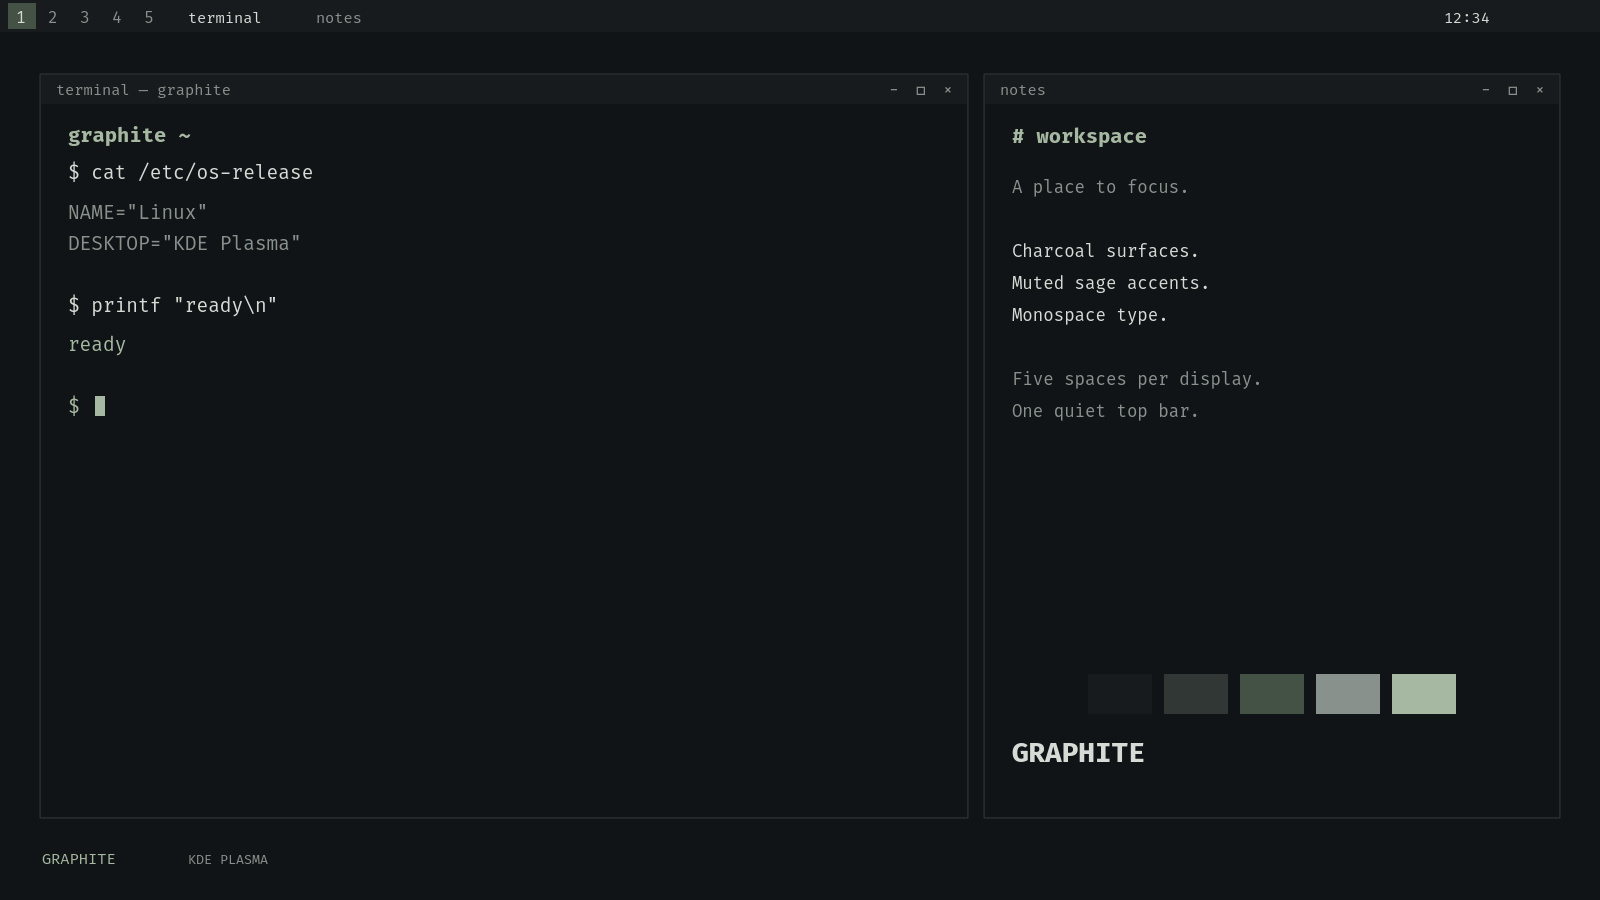
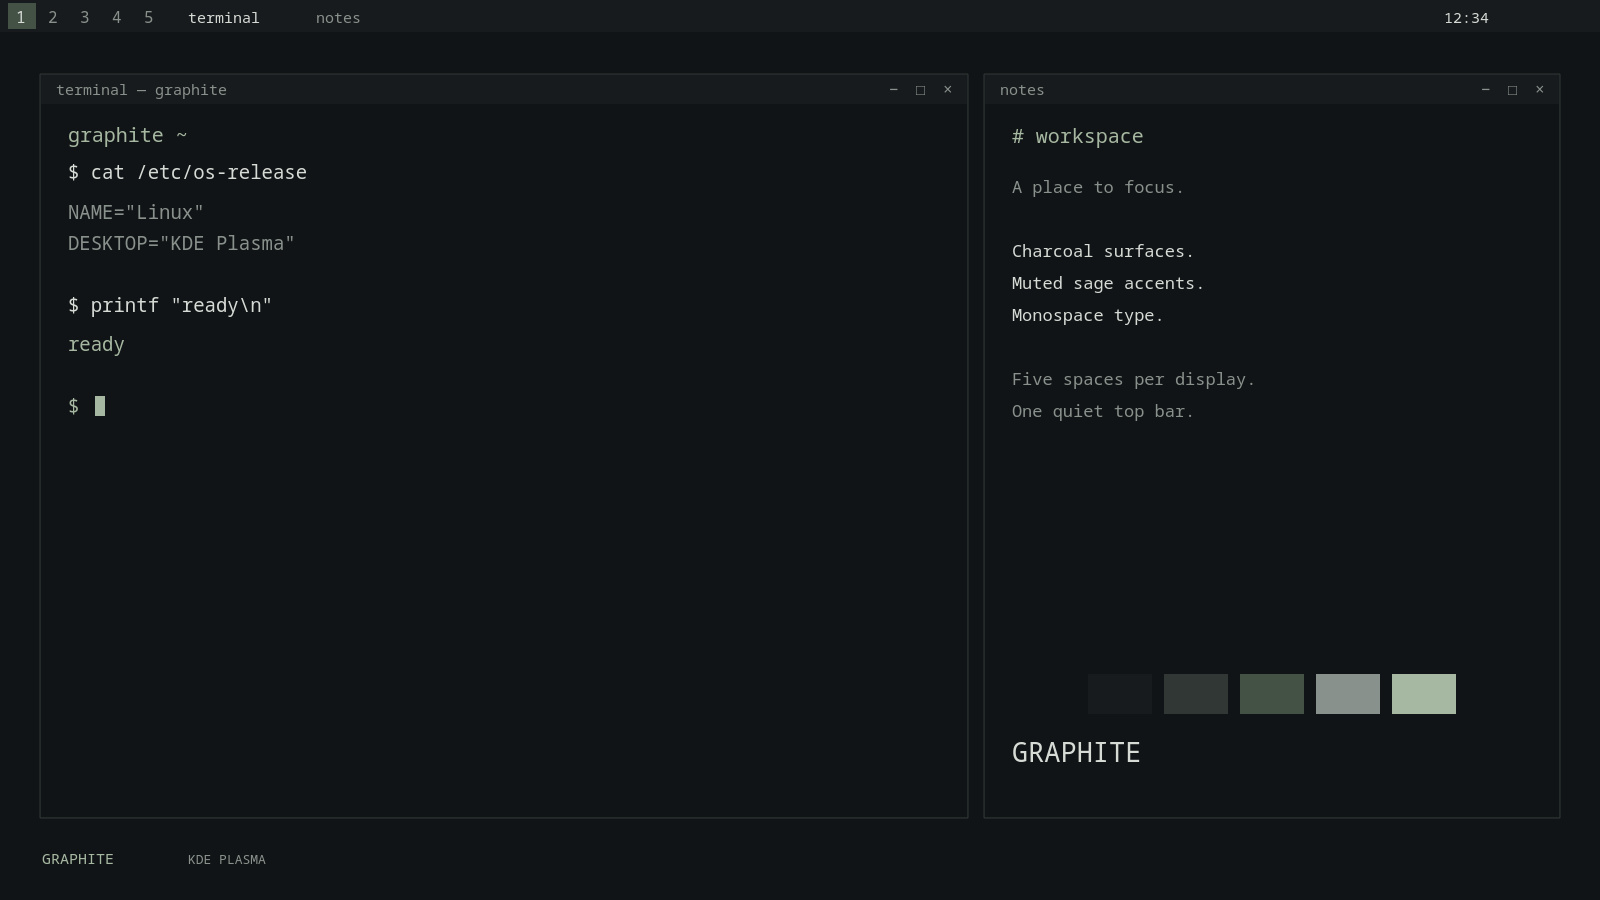
Fix Qt 6 font weights and restore regular monospace typography

diff --git a/tools/render-font-samples.py b/tools/render-font-samples.py
@@ -1,0 +1,155 @@
+#!/usr/bin/env python3
+"""Render regular monospace choices with native Qt widgets and Graphite colors."""
+import argparse
+import configparser
+import os
+from pathlib import Path
+
+os.environ.setdefault('QT_QPA_PLATFORM', 'offscreen')
+os.environ.setdefault('QT_FONT_DPI', '96')
+
+from PySide6.QtGui import QColor, QFont, QFontDatabase, QFontInfo, QImage, QPainter, QPalette
+from PySide6.QtWidgets import (QApplication, QCheckBox, QHBoxLayout, QLineEdit,
+                              QListWidget, QMainWindow, QPushButton, QSplitter, QStyleFactory,
+                              QTreeWidget, QTreeWidgetItem, QVBoxLayout, QWidget)
+
+ROOT = Path(__file__).resolve().parents[1]
+FAMILIES = ('Noto Sans Mono', 'Hack', 'DejaVu Sans Mono')
+
+
+def palette():
+    colors = configparser.ConfigParser()
+    colors.read(ROOT / 'assets/color-schemes/TerminalGraphite.colors')
+    result = QPalette()
+    roles = {
+        'Window': ('Window', 'BackgroundNormal'),
+        'WindowText': ('Window', 'ForegroundNormal'),
+        'Base': ('View', 'BackgroundNormal'),
+        'AlternateBase': ('View', 'BackgroundAlternate'),
+        'Text': ('View', 'ForegroundNormal'),
+        'Button': ('Button', 'BackgroundNormal'),
+        'ButtonText': ('Button', 'ForegroundNormal'),
+        'Highlight': ('Selection', 'BackgroundNormal'),
+        'HighlightedText': ('Selection', 'ForegroundNormal'),
+        'ToolTipBase': ('Tooltip', 'BackgroundNormal'),
+        'ToolTipText': ('Tooltip', 'ForegroundNormal'),
+        'Link': ('View', 'ForegroundLink'),
+        'PlaceholderText': ('View', 'ForegroundInactive'),
+    }
+    for role, (group, key) in roles.items():
+        color = QColor(*map(int, colors['Colors:' + group][key].split(',')))
+        result.setColor(getattr(QPalette.ColorRole, role), color)
+    return result
+
+
+def sample_window(font):
+    window = QMainWindow()
+    window.setFont(font)
+    for name in ('File', 'Edit', 'View', 'Go', 'Help'):
+        window.menuBar().addMenu(name)
+    toolbar = window.addToolBar('Navigation')
+    toolbar.setMovable(False)
+    for label in ('← Back', '↑ Up', 'Home'):
+        toolbar.addAction(label)
+    address = QLineEdit('/home/kimmo/Projects')
+    toolbar.addWidget(address)
+
+    body = QWidget()
+    layout = QVBoxLayout(body)
+    splitter = QSplitter()
+    places = QListWidget()
+    places.addItems(('Home', 'Desktop', 'Documents', 'Downloads', 'Projects', 'Pictures'))
+    places.setCurrentRow(4)
+    splitter.addWidget(places)
+    files = QTreeWidget()
+    files.setHeaderLabels(('Name', 'Modified', 'Size'))
+    for values in (('kde-graphite', 'Today', 'Folder'), ('notes.md', 'Yesterday', '2.4 KiB'),
+                   ('wallpaper.png', '12 Nov', '1.2 MiB'), ('Ääkköset.txt', '11 Nov', '640 B')):
+        files.addTopLevelItem(QTreeWidgetItem(values))
+    files.setCurrentItem(files.topLevelItem(0))
+    files.setRootIsDecorated(False)
+    files.setColumnWidth(0, 180)
+    files.setColumnWidth(1, 112)
+    splitter.addWidget(files)
+    splitter.setSizes((125, 460))
+    layout.addWidget(splitter)
+    search = QLineEdit()
+    search.setPlaceholderText('Search files and folders…')
+    layout.addWidget(search)
+    actions = QHBoxLayout()
+    actions.addWidget(QCheckBox('Show hidden files'))
+    actions.addStretch()
+    actions.addWidget(QPushButton('New folder'))
+    layout.addLayout(actions)
+    window.setCentralWidget(body)
+    window.statusBar().showMessage('4 items · 1 selected')
+    window.resize(608, 360)
+    return window
+
+
+def draw_text(painter, x, y, text, family, size, color='#d7dbd6'):
+    font = QFont(family, size)
+    font.setWeight(QFont.Normal)
+    painter.setFont(font)
+    painter.setPen(QColor(color))
+    painter.drawText(x, y, text)
+
+
+def render_sample(app, family, index):
+    font = QFont(family, 10)
+    font.setWeight(QFont.Normal)
+    app.setFont(font)
+    window = sample_window(font)
+    window.show()
+    app.processEvents()
+    image = QImage(640, 570, QImage.Format_RGB32)
+    image.fill(QColor('#111416'))
+    painter = QPainter(image)
+    draw_text(painter, 16, 35, f'{index}. {family}', family, 17, '#a6b8a1')
+    draw_text(painter, 16, 62, 'Regular / 400 · 10 pt', family, 10, '#89918c')
+    painter.fillRect(16, 82, 608, 30, QColor('#181b1d'))
+    draw_text(painter, 28, 102, 'Projects — Graphite', family, 9)
+    draw_text(painter, 544, 102, '−  □  ×', family, 9, '#89918c')
+    painter.drawPixmap(16, 112, window.grab())
+    draw_text(painter, 20, 510, '$ git status --short', family, 11, '#a6b8a1')
+    draw_text(painter, 20, 540, 'Il1 O0  0123456789  {}[]  äöå', family, 11)
+    painter.end()
+    window.close()
+    print(f'{family}: resolved to {QFontInfo(font).family()}, weight {QFontInfo(font).weight()}')
+    return image
+
+
+def main():
+    parser = argparse.ArgumentParser(description=__doc__)
+    parser.add_argument('--output', type=Path, default=ROOT / 'build/font-samples')
+    args = parser.parse_args()
+    app = QApplication([])
+    if 'Breeze' not in QStyleFactory.keys():
+        parser.error('The Breeze Qt widget style must be installed for these previews')
+    app.setStyle('Breeze')
+    app.setPalette(palette())
+    missing = set(FAMILIES) - set(QFontDatabase.families())
+    if missing:
+        parser.error('Install these fonts before rendering: ' + ', '.join(sorted(missing)))
+    args.output.mkdir(parents=True, exist_ok=True)
+    sheet = QImage(1952, 658, QImage.Format_RGB32)
+    sheet.fill(QColor('#111416'))
+    painter = QPainter(sheet)
+    draw_text(painter, 24, 34, 'GRAPHITE · Regular monospace choices', 'sans-serif', 17)
+    draw_text(painter, 24, 62, 'Native Qt/Breeze widget renders · illustrative windows · all samples use 10 pt / weight 400',
+              'sans-serif', 11, '#89918c')
+    for index, family in enumerate(FAMILIES, 1):
+        sample = render_sample(app, family, index)
+        destination = args.output / (family.lower().replace(' ', '-') + '.png')
+        if not sample.save(str(destination)):
+            raise RuntimeError(f'Could not write {destination}')
+        painter.drawImage(8 + (index - 1) * 648, 80, sample)
+    painter.end()
+    destination = args.output / 'comparison.png'
+    if not sheet.save(str(destination)):
+        raise RuntimeError(f'Could not write {destination}')
+    print(destination)
+
+
+if __name__ == '__main__':
+    main()

diff --git a/tools/render-theme-previews.py b/tools/render-theme-previews.py
@@ -17,10 +17,10 @@ def rect(painter, x, y, width, height, color):
     painter.fillRect(QRectF(x, y, width, height), QColor(color))
 
 
-def text(painter, x, y, content, size=14, color=TEXT, bold=False):
+def text(painter, x, y, content, size=14, color=TEXT):
     font = QFont(FAMILY, size)
     font.setStyleHint(QFont.TypeWriter)
-    font.setBold(bold)
+    font.setWeight(QFont.Normal)
     painter.setFont(font)
     painter.setPen(QColor(color))
     painter.drawText(x, y, content)
@@ -51,7 +51,7 @@ def desktop():
     text(p, 1444, 23, '12:34', 11)
     window(p, 40, 74, 928, 744, 'terminal — graphite')
     window(p, 984, 74, 576, 744, 'notes')
-    text(p, 68, 142, 'graphite ~', 15, SAGE, True)
+    text(p, 68, 142, 'graphite ~', 15, SAGE)
     text(p, 68, 179, '$ cat /etc/os-release', 14)
     text(p, 68, 219, 'NAME="Linux"', 14, MUTED)
     text(p, 68, 250, 'DESKTOP="KDE Plasma"', 14, MUTED)
@@ -59,13 +59,13 @@ def desktop():
     text(p, 68, 351, 'ready', 14, SAGE)
     text(p, 68, 413, '$', 14, SAGE)
     rect(p, 95, 396, 10, 20, SAGE)
-    text(p, 1012, 143, '# workspace', 15, SAGE, True)
+    text(p, 1012, 143, '# workspace', 15, SAGE)
     lines = ['A place to focus.', '', 'Charcoal surfaces.', 'Muted sage accents.', 'Monospace type.', '', 'Five spaces per display.', 'One quiet top bar.']
     for n, line in enumerate(lines):
         text(p, 1012, 193 + n * 32, line, 13, MUTED if n in [0, 6, 7] else TEXT)
     for n, color in enumerate([BG, PANEL, LINE, SELECT, MUTED, SAGE]):
         rect(p, 1012 + n * 76, 674, 64, 40, color)
-    text(p, 1012, 762, 'GRAPHITE', 20, TEXT, True)
+    text(p, 1012, 762, 'GRAPHITE', 20, TEXT)
     text(p, 42, 864, 'GRAPHITE', 11, SAGE)
     text(p, 188, 864, 'KDE PLASMA', 10, MUTED)
     p.end()

diff --git a/tests/test_theme.py b/tests/test_theme.py
@@ -1,4 +1,6 @@
 import contextlib
+import configparser
+import importlib.util
 import io
 import json
 import os
@@ -15,6 +17,26 @@ import theme
 
 
 class ThemeTests(unittest.TestCase):
+    @unittest.skipUnless(importlib.util.find_spec('PySide6'), 'PySide6 is needed to decode Qt fonts')
+    def test_generated_and_shipped_fonts_decode_as_regular_in_qt6(self):
+        from PySide6.QtGui import QFont
+
+        values = []
+        for options in [{'font': 'Fira Code', 'font_size': 10}, {'font': 'monospace', 'font_size': 12}]:
+            values.extend(value for group in theme.font_values(options).values() for value in group.values())
+            defaults = configparser.ConfigParser()
+            defaults.optionxform = str
+            defaults.read_string(theme.package_files(options)[Path('contents/defaults')].decode())
+            for group in ['kdeglobals][General', 'kdeglobals][WM']:
+                values.extend(value for key, value in defaults[group].items() if key != 'ColorScheme')
+        profile = install.read_config(install.ROOT / 'assets/konsole/TerminalGraphite.profile')
+        values.append(profile['Appearance']['Font'])
+        for value in set(values):
+            with self.subTest(font=value):
+                font = QFont()
+                self.assertTrue(font.fromString(value))
+                self.assertEqual(font.weight(), QFont.Normal)
+
     def test_standalone_package_matches_canonical_palette_and_layout(self):
         options = {'font': 'Fira Code', 'font_size': 10}
         files = theme.package_files(options)

diff --git a/theme.py b/theme.py
@@ -19,9 +19,11 @@ def wallpaper_script(data):
 
 def font_values(options):
     family, size = options['font'], options['font_size']
-    normal = f'{family},{size},-1,5,400,0,0,0,0,0'
-    small = f'{family},{max(size - 1, 8)},-1,5,400,0,0,0,0,0'
-    title = f'{family},{max(size - 1, 8)},-1,5,500,0,0,0,0,0'
+    # Qt 6 requires at least 16 fields to recognize its 100–900 weight scale.
+    # In the legacy 10-field format, 400 is decoded as Black (900).
+    normal = f'{family},{size},-1,5,400,0,0,0,0,0,0,0,0,0,0,1'
+    small = f'{family},{max(size - 1, 8)},-1,5,400,0,0,0,0,0,0,0,0,0,0,1'
+    title = small
     return {'General': {**{key: normal for key in ['font', 'fixed', 'menuFont', 'toolBarFont']},
                         'smallestReadableFont': small}, 'WM': {'activeFont': title}}
 
@@ -33,9 +35,8 @@ def package_files(options):
     defaults = (PACKAGE / 'contents/defaults').read_text()
     fonts = font_values(options)
     replacements = {
-        'Fira Code,10,-1,5,400,0,0,0,0,0': fonts['General']['font'],
-        'Fira Code,9,-1,5,400,0,0,0,0,0': fonts['General']['smallestReadableFont'],
-        'Fira Code,9,-1,5,500,0,0,0,0,0': fonts['WM']['activeFont'],
+        'Fira Code,10,-1,5,400,0,0,0,0,0,0,0,0,0,0,1': fonts['General']['font'],
+        'Fira Code,9,-1,5,400,0,0,0,0,0,0,0,0,0,0,1': fonts['General']['smallestReadableFont'],
     }
     for old, new in replacements.items():
         defaults = defaults.replace(old, new)

diff --git a/tests/test_sddm.py b/tests/test_sddm.py
@@ -34,6 +34,13 @@ class SddmTests(unittest.TestCase):
                 sddm.apply()
                 self.assertTrue((theme / 'background.png').is_file())
                 self.assertIn('Current=graphite', config.read_text())
+                if importlib.util.find_spec('PySide6'):
+                    from PySide6.QtGui import QFont
+                    generated = sddm.configparser.ConfigParser()
+                    generated.read_string(config.read_text())
+                    font = QFont()
+                    self.assertTrue(font.fromString(generated['Theme']['Font']))
+                    self.assertEqual(font.weight(), QFont.Normal)
                 self.assertEqual((theme / 'Main.qml').stat().st_mode & 0o777, 0o644)
                 sddm.restore(next(backups.iterdir()))
             self.assertEqual((theme / 'original').read_text(), 'old theme')

diff --git a/sddm/install.py b/sddm/install.py
@@ -106,7 +106,7 @@ def apply():
                 shutil.rmtree(THEME)
             staged.rename(THEME)
         config = ('[Theme]\nCurrent=graphite\n'
-                  'Font=monospace,10,-1,5,400,0,0,0,0,0\n')
+                  'Font=monospace,10,-1,5,400,0,0,0,0,0,0,0,0,0,0,1\n')
         with tempfile.NamedTemporaryFile(dir=CONFIG.parent, mode='w', delete=False) as handle:
             handle.write(config)
             staged_config = Path(handle.name)

diff --git a/docs/development.md b/docs/development.md
@@ -51,6 +51,10 @@ Read skipped tests in the output; an ordinary portable run does not enable the
 optional native shortcut test. CI tests Python 3.10 and 3.14 with Node and builds
 the archive. It does not establish graphical compatibility on its runner OS.
 Asset renderers use PySide6 QtGui; wallpaper rendering also uses QtSvg.
+`python3 tools/render-font-samples.py` renders three regular monospace choices
+to `build/font-samples/`, including a comparison sheet. It requires PySide6
+QtWidgets, the Breeze widget style, and installed Noto Sans Mono, Hack and
+DejaVu Sans Mono fonts. The images show illustrative native Qt windows.
 File-install tests use temporary directories and mocked desktop APIs; KPackage
 import uses an isolated data directory and disconnected session bus.
 

diff --git a/docs/configuration.md b/docs/configuration.md
@@ -45,6 +45,9 @@ automatically discovered or saved as the next invocation's defaults.
 
 Setting and application names are case-sensitive. Missing fonts fall back to
 Fira Code when installed, then `monospace`. No fonts are downloaded or installed.
+Interface text and window titles use regular weight (400).
+Font values use Qt 6's expanded format; writing `400` in the older short format
+causes Qt to interpret it as Black (900).
 Monitor and application preferences are unused by the appearance profile.
 
 ## Applications
